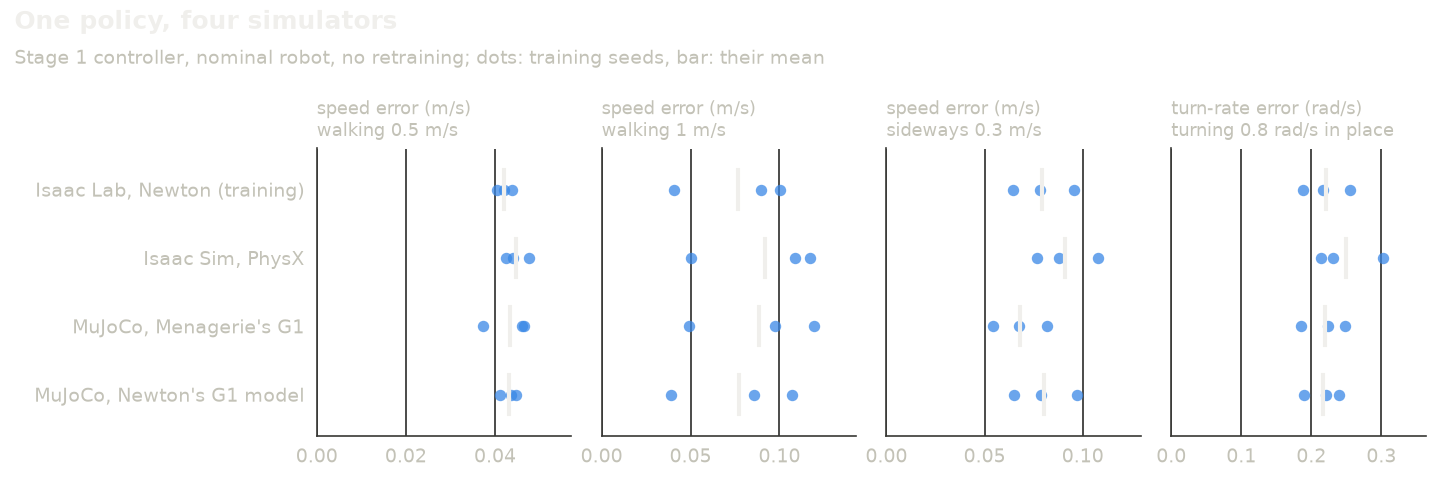
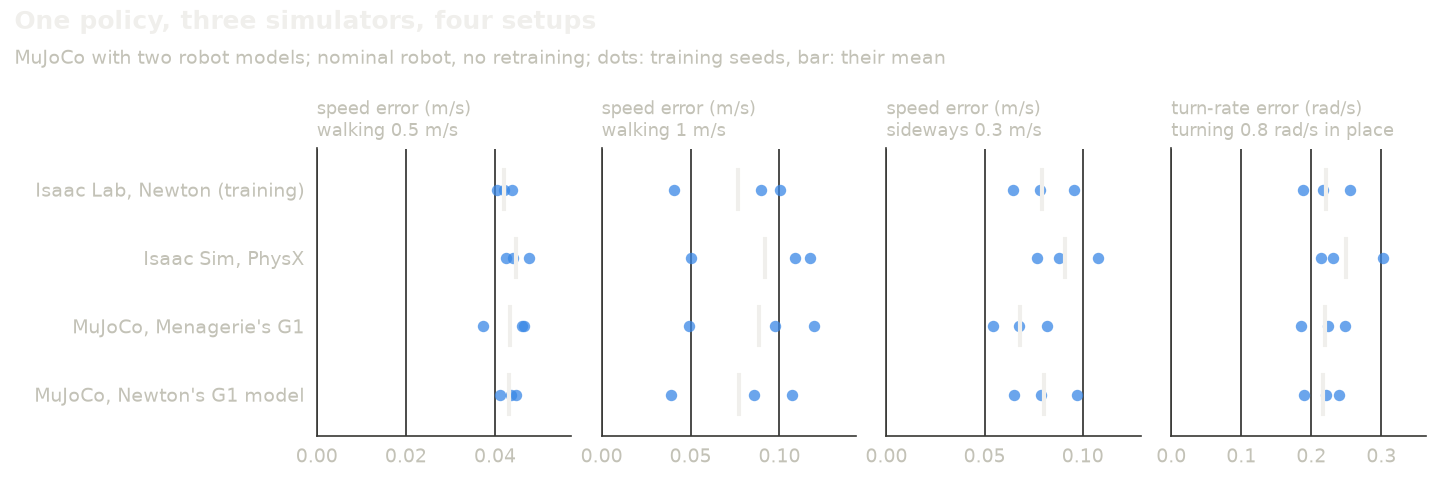
Name the simulators correctly, show the two surprising ablation results on the front page, and add the social preview image

Changed region(s): [[0.0, 0.0909, 0.6562, 0.1515]]

diff --git a/scripts/figures.py b/scripts/figures.py
@@ -572,7 +572,7 @@ def engines(t, mode):
     fig.text(
         0.01,
         0.98,
-        "One policy, four simulators",
+        "One policy, three simulators, four setups",
         color=t["ink"],
         fontsize=12,
         fontweight="bold",
@@ -581,7 +581,8 @@ def engines(t, mode):
     fig.text(
         0.01,
         0.9,
-        "Stage 1 controller, nominal robot, no retraining; dots: training seeds, bar: their mean",
+        "MuJoCo with two robot models; nominal robot, no retraining; dots: training seeds, "
+        "bar: their mean",
         color=t["ink2"],
         fontsize=9,
         va="top",

diff --git a/README.md b/README.md
@@ -188,7 +188,10 @@ survived at 2.5 m/s, 85-94% at 3 m/s); the B2 students' was 2.0 m/s (92-95% at 2
 weakness: walking at 0.5 m/s on Menagerie's model, seed 1 trips over gentle 0.5 m/s kicks in 30
 of 200 episodes, though never over 1 m/s kicks there; the cause was not investigated.
 
-### One policy, four simulators
+### One policy, three simulators
+
+Four setups: Isaac Lab on Newton (training), Isaac Sim on PhysX, and MuJoCo with two robot
+models (Menagerie's G1 and the training model).
 
 <p align="center">
 <picture>
@@ -227,6 +230,11 @@ each. Seen on every seed:
   episodes, but it walks more precisely (speed error at 1 m/s 0.10-0.13 m/s against 0.17-0.23).
 - **Without friction randomization, falls to kicks triple.** Without the curriculum, or without
   the teacher (PPO alone), the turning error about doubles.
+- **Two surprises.** The student trained without a teacher fell least of all to 1 m/s kicks
+  (9 / 8 / 6 falls against 84 / 106 / 66 for the full recipe), and the one trained without sensor
+  noise fell less to kicks of both sizes (1 m/s: 37 / 32 / 27; 2 m/s: 201 / 198 / 83 against
+  254 / 298 / 241) while still rarely falling to noise. So here the teacher bought precise command following, not
+  robustness, and noise randomization cost some push recovery. Neither cause was tested.
 
 ## What went wrong on the way, and the fixes
 
